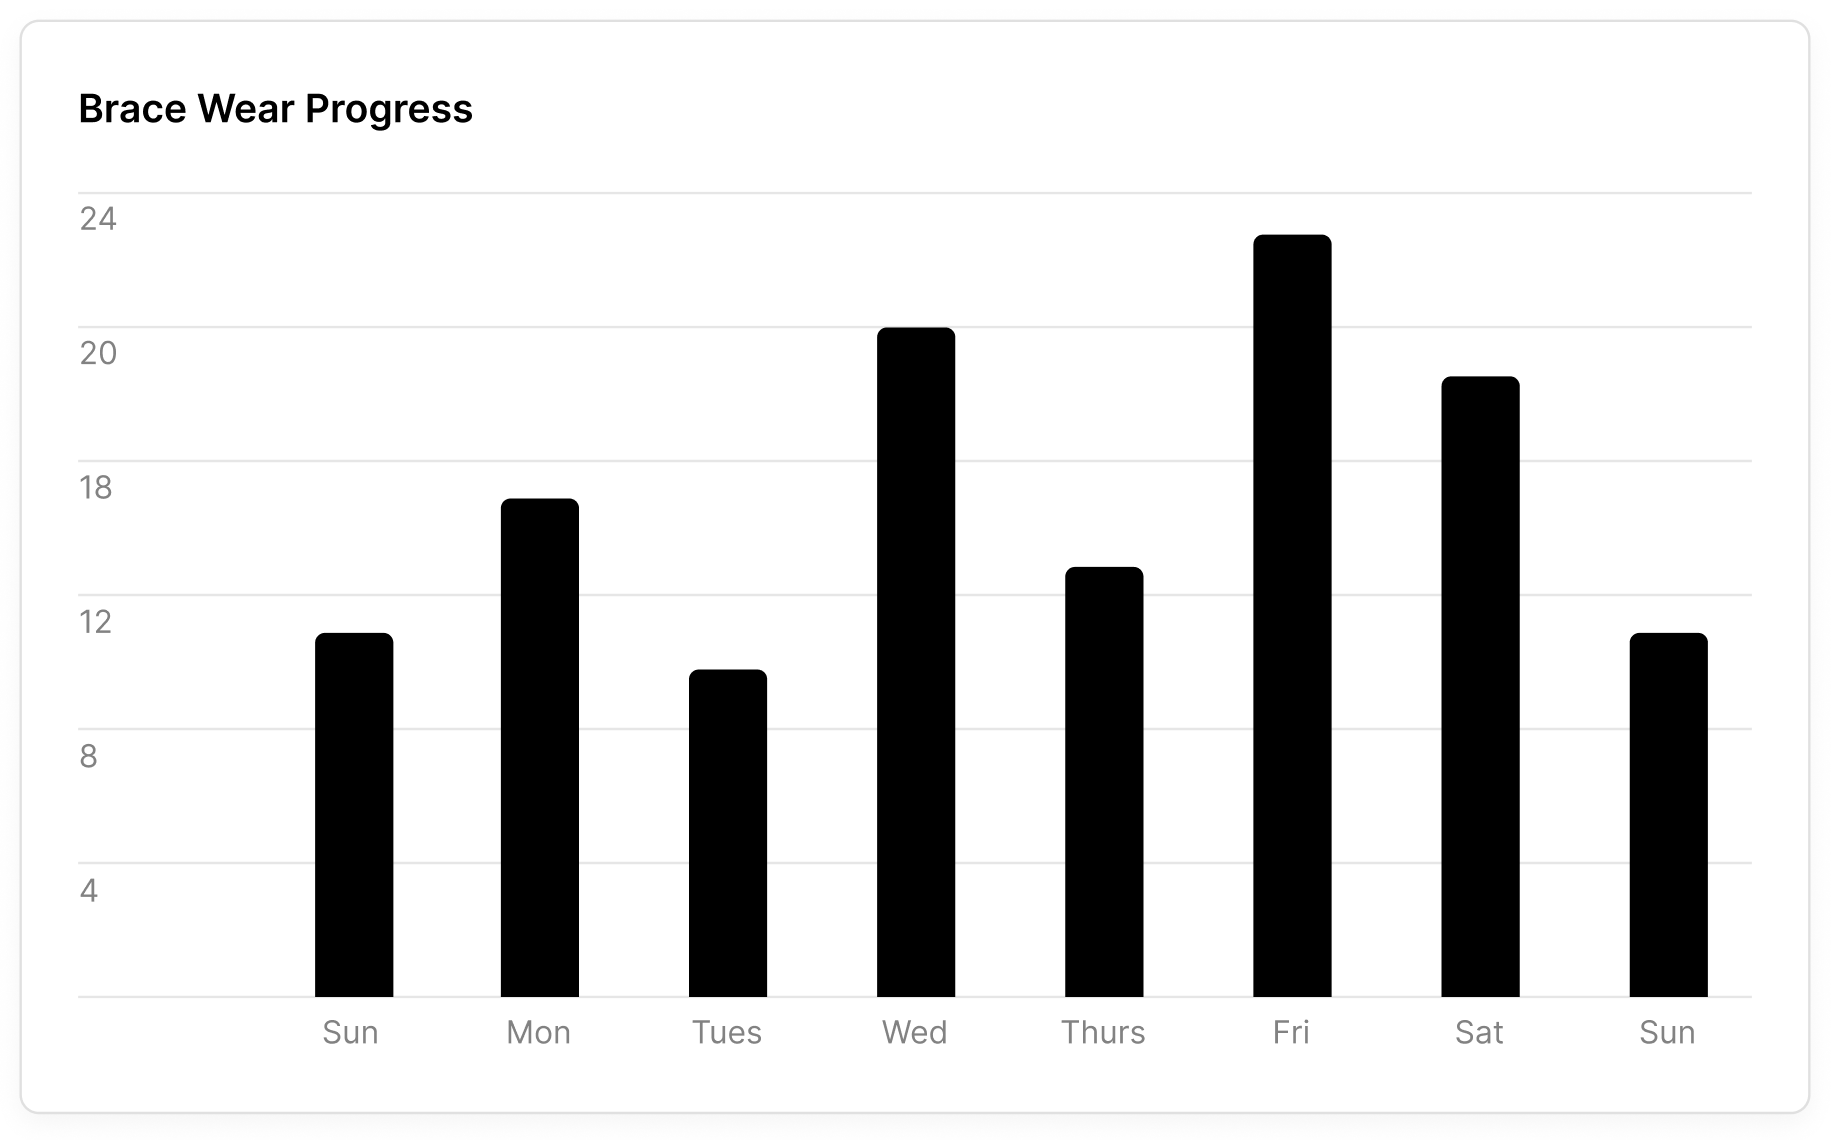
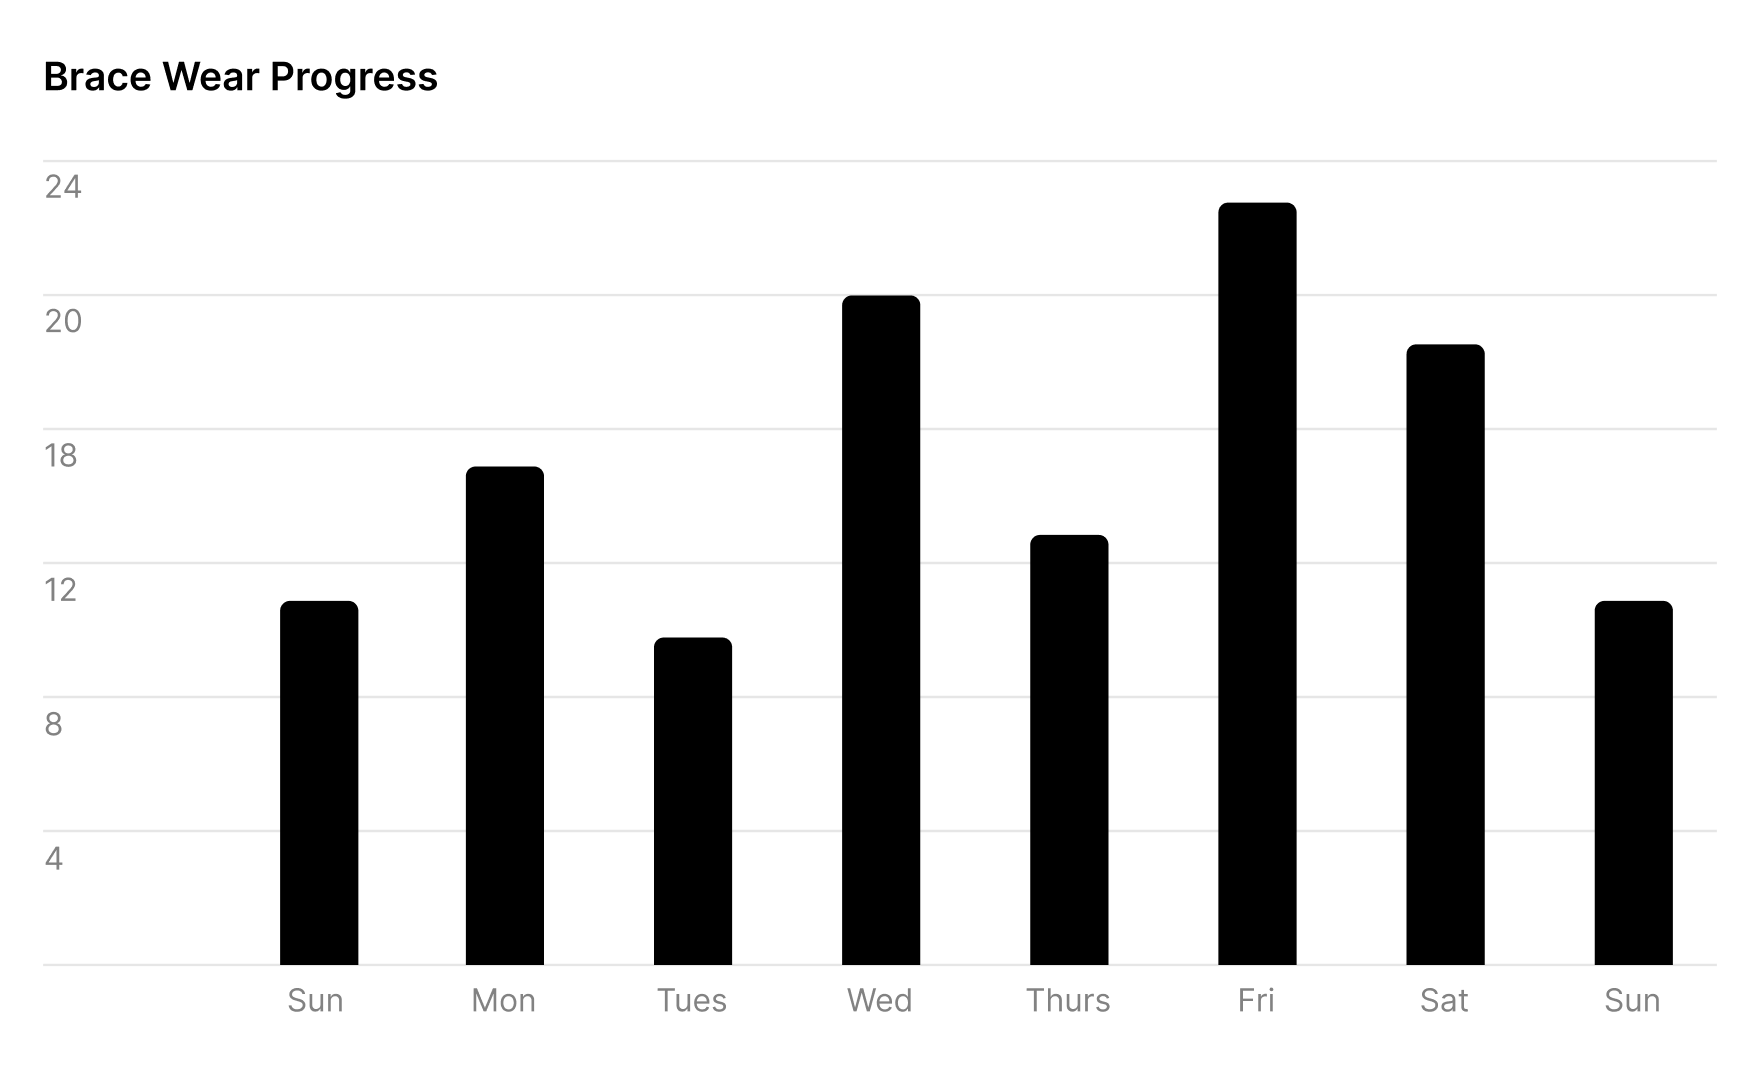
fixed styling bugs and cors error

diff --git a/frontend/pages/progress.tsx b/frontend/pages/progress.tsx
@@ -6,7 +6,7 @@ import { SmallCloseIcon} from '@chakra-ui/icons'
 
 export default function Progress() {
     return (
-        <div style={all}>
+        <Box style={all}>
             <Flex
                 direction={['column', 'column', 'row']}
                 justify={['center', 'space-between', 'space-between']}
@@ -40,14 +40,14 @@ export default function Progress() {
 
             <Box p='2rem'>
                 <Box flexDirection={['column', 'row']}
-                sx={{
-                    backgroundColor: 'white',
-                    // padding: '15px',
-                    // marginLeft: '30px',
-                    // marginRight: '30px',
-                    display: 'flex',
-                    justifyContent: 'space-between',
-                }}>
+                    sx={{
+                        backgroundColor: 'white',
+                        // padding: '15px',
+                        // marginLeft: '30px',
+                        // marginRight: '30px',
+                        display: 'flex',
+                        justifyContent: 'space-between',
+                    }}>
                     <div style={curveStatStyle}>
                         <div style={topStatText}>Current Curvature</div>
                         <div style={middleStatText}>31°, 20°</div>
@@ -65,73 +65,65 @@ export default function Progress() {
                     </div>
                 </Box>
 
-                <Box flexDirection={['column', 'row']} sx={{
-                    backgroundColor: 'white',
-                    // padding: '15px',
-                    // marginLeft: '30px',
-                    // marginRight: '30px',
-                    display: 'flex',
-                    justifyContent: 'space-between',
+                <Box 
+                    flexDirection={['column', 'row']} 
+                    sx={{
+                        backgroundColor: 'white',
+                        // padding: '15px',
+                        // marginLeft: '30px',
+                        // marginRight: '30px',
+                        display: 'flex',
+                        justifyContent: 'space-between',
 
-                }}>
-                    <div style={curveGraphbox}>
-                        <div style={imageBox}>
-                            <img src="curvatureGraph.png" alt="curveGraph" width='100%'/>
-                        </div>
-                    </div>
-                    <div style={legendBox}>
-                        <div style={legendStyle}>
-                            <div style={titleText}>Legend</div>
-                            <table>
-                                <tr>
-                                    <th>
-                                        <img src="greycircle.png" style={{ width: '70px', height: 'auto' }}/>
-                                    </th>
-                                    <th>
-                                        <tr>Thoracic</tr>
-                                        <tr style={{fontWeight: 'normal', fontSize: 'small', fontFamily: 'helvetica'}}>
-                                            <div style={{color: '#8A8F92'}}>current: 31 degrees</div>
-                                        </tr>
-                                    </th>
-                                </tr>
-                                <tr>
-                                    <th>
-                                        <img src="bluecircle.png" style={{ width: '70px', height: 'auto' }}/>
-                                    </th>
-                                    <th>
-                                        <tr>Lumbar</tr>
-                                        <tr style={{fontWeight: 'normal', fontSize: 'small', fontFamily: 'helvetica'}}>
-                                            <div style={{color: '#8A8F92'}}>current: 20 degrees</div>
-                                        </tr>
-                                    </th>
-                                </tr>
-                            </table>
-                            
-                            
-                        </div>
-                    </div>
+                    }}
+                >
+                    <Box sx={{ boxShadow: '0px 2px 4px rgba(0, 0, 0, 0.07)', border: '1px solid #cccc', borderRadius: '10px', }} p={'5px'} m={'20px'}>
+                        <Image src="curvatureGraph.png" alt="curveGraph" width='100%' h="auto"/>
+                    </Box>
+                    <Box style={legendStyle} h="100%" m={'20px'} p={'20px'}>
+                        <TableContainer>
+                            <Table size='sm'>
+                                <Thead>
+                                    <Tr>
+                                        <Th>Legend</Th>
+                                    </Tr>
+                                </Thead>
+                                <Tbody>
+                                    <Tr>
+                                        <Td>
+                                            <Image src="greycircle.png" alt='grey circle' w="20%" h="auto"/>
+                                        </Td>
+                                        <Td>Thoracic</Td>
+                                        <Td>current: 31 degrees</Td>
+                                    </Tr>
+                                    <Tr>
+                                        <Td>
+                                            <Image src="bluecircle.png" alt='blue circle' w="20%" h="auto"/>
+                                        </Td>
+                                        <Td>Lumbar</Td>
+                                        <Td>current: 20 degrees</Td>
+                                    </Tr>
+                                </Tbody>
+                            </Table>
+                        </TableContainer>
+                    </Box>
                 </Box>
 
                 <Box
                     flexDirection={['column', 'row']}
                     justifyContent="center"
                     backgroundColor="white"
-                    padding="0px"
-                    marginLeft={['0px', '0px']}
-                    marginRight={['0px', '0px']}
-                    marginTop="25px"
+                    padding="20px"
                 >
                     <Box
                         style={buttonStatsStyle}
                         flexDir={['column', 'row']}
-                        marginRight={['0px', '0px']}
-                        marginBottom={['0px', '0px']}
                     >
-                        <Box flexDirection={['column', 'column']} w={'50%'} paddingRight={10}>
-                            <div style={physioButtonBox}>
+                        <Box flexDirection={['column', 'column']} w={['100%', '50%']} paddingRight={10}>
+                            <Box style={physioButtonBox}>
                                 <Button>+ Physiotherapy</Button>
-                            </div>
-                            <div style={physioBox}>
+                            </Box>
+                            <Box style={physioBox}>
                                 <TableContainer>
                                     <Table variant='simple'>
                                         <Thead>
@@ -165,16 +157,16 @@ export default function Progress() {
                                         </Tbody>
                                     </Table>
                                 </TableContainer>
-                            </div>
+                            </Box>
                         </Box>
                     
-                        <Box flexDirection={['column', 'column']} w={'50%'}>
-                            <div style={braceButtonBox}>
+                        <Box flexDirection={['column', 'column']} w={['100%', '50%']}>
+                            <Box style={braceButtonBox}>
                                 <Button>+ Brace Wear</Button>
-                            </div>
-                            <div style={braceBox}>
-                                <img src="braceGraph.png" alt="braceGraph" width={'100%'}/>
-                            </div>
+                            </Box>
+                            <Box sx={{ boxShadow: '0px 2px 4px rgba(0, 0, 0, 0.07)', border: '1px solid #cccc', borderRadius: '10px', }} p={'10px'} m={'10px'} >
+                                <Image src="braceGraph.png" alt="braceGraph" width={'100%'}/>
+                            </Box>
                         </Box>
                     </Box>
                 </Box>
@@ -187,7 +179,7 @@ export default function Progress() {
                 <Image src='/github.png' alt='logo' width={10} height={10}/>
                 </Link>
             </div>
-        </div>
+        </Box>
 
     )
 }
@@ -253,12 +245,12 @@ const bottomStatText: React.CSSProperties = {
 };
 
 const curveGraphbox: React.CSSProperties = {
-    width: '80%',
+    width: '100%',
     // marginLeft: '10px'
 };
 
 const legendBox: React.CSSProperties = {
-    width: '20%',
+    width: '100%',
 };
 
 const imageBox: React.CSSProperties = {
@@ -275,8 +267,8 @@ const legendStyle: React.CSSProperties = {
     flex: '1',
     textAlign: 'left',
     padding: '20px',
-    marginTop: '7px',
-    margin: '20px',
+    // marginTop: '7px',
+    // margin: '20px',
     boxShadow: '0px 2px 4px rgba(0, 0, 0, 0.07)'
 };
 

diff --git a/frontend/pages/upload.tsx b/frontend/pages/upload.tsx
@@ -70,7 +70,7 @@ export default function Upload() {
     };
 
     return (
-        <Box w="100%" ml={[5,0,0]}>
+        <Box>
             <Flex
                 direction={['column', 'column', 'row']}
                 justify={['center', 'space-between', 'space-between']}
@@ -102,50 +102,38 @@ export default function Upload() {
                 </Flex>
             </Flex>
 
-            <Flex align="center" justify="center" flex="1" flexDir={['column', 'row']} padding={'2rem'}>
-                <Box p={10} sx={{ borderWidth: '5px', borderRadius: '20px' }} w={['100vw', '50vw']} h={'80vh'} display="flex" flexDirection="column" justifyContent="center" alignItems="center">
-                <VStack spacing={10} alignItems={'center'} display={'flex'}>
+            <Box display={"flex"} flexDirection={['column', 'row', 'row']} margin={[,0,'2rem']} alignItems={'center'} justifyContent={'center'}>
+                <Box sx={{ borderWidth: '5px', borderRadius: '20px' }} w={['80vw', '40vw']} h={['50vh', '80vh']} display={'flex'} alignItems={'center'} justifyContent={'center'} flexDirection={"column"} p={10} mr={[0,5]} mb={[10,0]}>
                     <Text fontWeight={'bold'}>Upload an x-ray or back image</Text>
-                    <Input type="file" onChange={handleFileChange} />
+                    <Input type="file" onChange={handleFileChange} m={10}/>
                     <Button onClick={handleSubmit}>Predict</Button>
 
                     <Modal isOpen={isOpen} onClose={onClose} isCentered>
-                    <ModalOverlay />
-                    <ModalContent>
-                        <ModalHeader>Prediction</ModalHeader>
-                        <ModalCloseButton />
-                        <ModalBody>
-                            {renderPrediction() || <Text>Loading...</Text>}
-                        {/* {predictions ? (
-                            <Box>
-                            <Text>This image shows:</Text>
-                            {Object.keys(predictions).map((label) => (
-                                <Text key={label}>{`${label}: ${predictions[label].toFixed(4)}`}</Text>
-                            ))}
-                            </Box>
-                        ) : (
-                            <Text>Loading...</Text>
-                        )} */}
-                        </ModalBody>
-                        <ModalFooter>
-                        <Button colorScheme='blue' mr={3} onClick={onClose}>
-                            Close
-                        </Button>
-                        </ModalFooter>
-                    </ModalContent>
+                        <ModalOverlay />
+                        <ModalContent>
+                            <ModalHeader>Prediction</ModalHeader>
+                            <ModalCloseButton />
+                            <ModalBody>
+                                {renderPrediction() || <Text>Loading...</Text>}
+                            </ModalBody>
+                            <ModalFooter>
+                            <Button colorScheme='blue' mr={3} onClick={onClose}>
+                                Close
+                            </Button>
+                            </ModalFooter>
+                        </ModalContent>
                     </Modal>
-                </VStack>
                 </Box>
-                <Box p={5}>
-                {file ? (
-                    <Box p={10} sx={{ borderWidth: '5px', borderRadius: '20px' }} w={['100vw', '50vw']} h={'80vh'} display={'flex'} alignItems={'center'} justifyContent={'center'}>
-                    <Image src={URL.createObjectURL(file)} alt="Selected Image" width='auto' height='100%' />
-                    </Box>
-                ) : (
-                    <Box p={10} sx={{ borderWidth: '5px', borderRadius: '20px' }} w={['100vw', '50vw']} h={'80vh'}></Box>
-                )}
+                <Box ml={[0,5]}>
+                    {file ? (
+                        <Box p={10} sx={{ borderWidth: '5px', borderRadius: '20px' }} w={['80vw', '40vw']} h={['50vh', '80vh']} display={'flex'} alignItems={'center'} justifyContent={'center'}>
+                            <Image src={URL.createObjectURL(file)} alt="Selected Image" width='auto' height='100%' />
+                        </Box>
+                    ) : (
+                        <Box p={10} sx={{ borderWidth: '5px', borderRadius: '20px' }} w={['80vw', '40vw']} h={['50vh', '80vh']}></Box>
+                    )}
                 </Box>
-            </Flex>
+            </Box>
         </Box>
     );
 }

diff --git a/frontend/pages/reminders.tsx b/frontend/pages/reminders.tsx
@@ -165,12 +165,12 @@ export default function Reminders() {
                     </Table>
                 </TableContainer>
             </Box>
-            <div style={footerBox}>
-                <div style={footerText}>SpineCARE</div>
+            <Box style={footerBox}>
+                <Box style={footerText}>SpineCARE</Box>
                 <Link href={'https://github.com/gracetxgao/spineCARE'}>
                 <Image src='/github.png' alt='logo' width={10} height={10}/>
                 </Link>
-            </div>
+            </Box>
         </Box>
     )
 }

diff --git a/backend/app.py b/backend/app.py
@@ -46,7 +46,7 @@ def predict():
     logits = logits.cpu().numpy()[0]
     predictions = {labels[i]: float(logits[i]) for i in range(len(labels))}
     response = make_response(jsonify(predictions))
-    response.headers.add("Access-Control-Allow-Origin", 'https://spinecare.vercel.app')
+    response.headers.add("Access-Control-Allow-Origin", "*")
     # response.headers.add("Access-Control-Allow-Origin", 'http://localhost:3000')
     response.headers.add("Access-Control-Allow-Headers", "Content-Type")
     response.headers.add("Access-Control-Allow-Methods", "POST")
